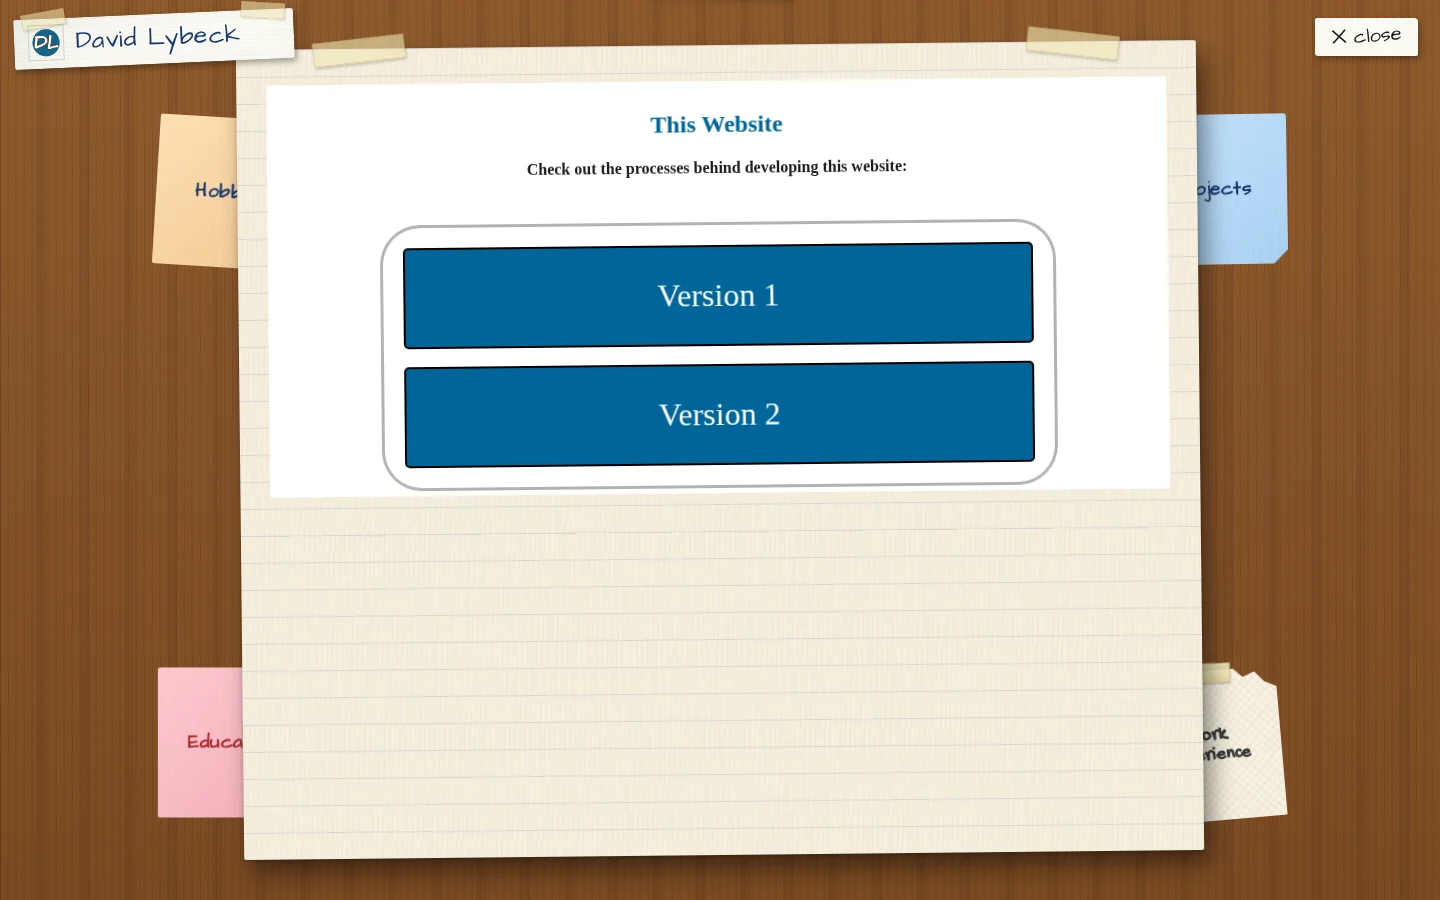
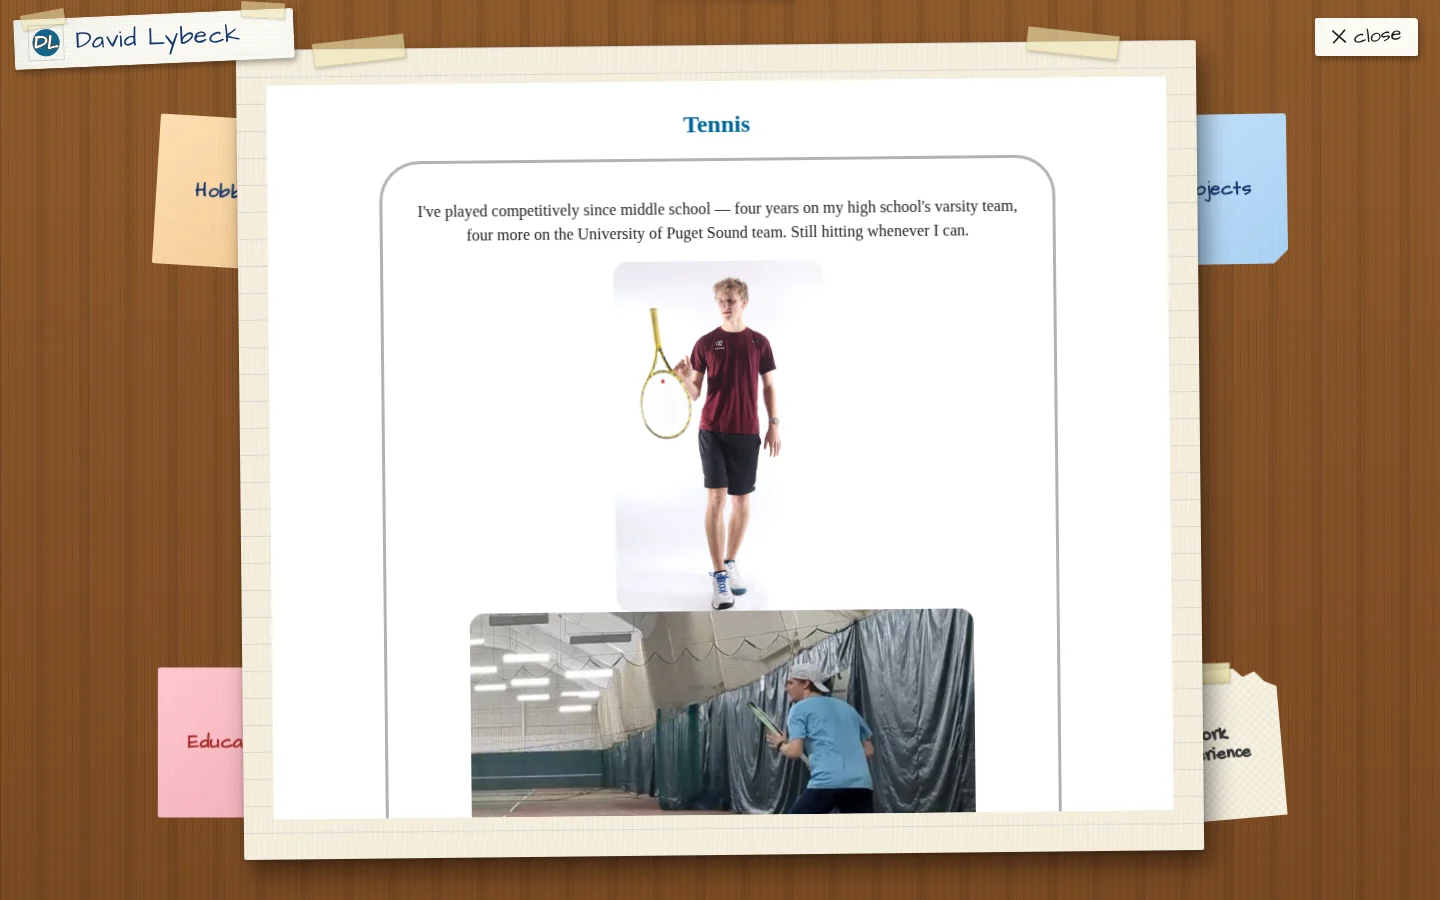
fix: make final v3 milestone visually distinct

diff --git a/templates/pages/projects/websites/this_website/v3.html b/templates/pages/projects/websites/this_website/v3.html
@@ -23,7 +23,7 @@
 
     <div class="section">
         <h3>April 25th 2026</h3>
-        <img class="media" src="/static/images/projects/this_website/v3/3.webp" alt="Public-only version 3 Board with its paper viewer">
+        <img class="media" src="/static/images/projects/this_website/v3/3.webp" alt="Version 3 paper viewer showing David's personal tennis page">
         <p>Removed the entire /dev hub and OpenHands integration that lived alongside the portfolio in v2 — now the codebase is strictly the public site. The cream paper now slides up to close (like lifting it off the table), runs larger on desktop, and gets pushed down on mobile so the navbar and close button don't overlap it.</p>
     </div>
 </div>

diff --git a/scripts/recover_v3_images.py b/scripts/recover_v3_images.py
@@ -31,8 +31,8 @@ SNAPSHOTS = (
     # Side-sliding paper viewer after the April 23 interaction polish.
     ("2.webp", "4fd2f2c", "/projects/websites/this_website"),
     # Public-only site immediately after the April 25 /dev removal, with the
-    # larger final paper viewer visible on the site's own history document.
-    ("3.webp", "0eacd53", "/projects/websites/this_website"),
+    # larger final paper viewer showing the personal side of the portfolio.
+    ("3.webp", "0eacd53", "/hobbies/tennis"),
 )
 
 
@@ -62,6 +62,7 @@ def historical_public_app(checkout: Path) -> FastAPI:
     template_by_path = {
         "": "pages/home.html",
         "projects/websites/this_website": "pages/projects/websites/this_website.html",
+        "hobbies/tennis": "pages/hobbies/tennis.html",
         "jobs": "pages/jobs.html",
     }
 

diff --git a/tests/test_historical_work.py b/tests/test_historical_work.py
@@ -29,13 +29,13 @@ DOCUMENT_ROUTES = (
 )
 
 
-def test_final_v3_snapshot_captures_the_site_history_document() -> None:
-    """The final retrospective image must show v3, not an unpainted PDF embed."""
+def test_final_v3_snapshot_uses_a_distinct_public_document() -> None:
+    """The final retrospective image must add a new view, not repeat image 2."""
 
     filename, commit, open_route = SNAPSHOTS[-1]
 
     assert (filename, commit) == ("3.webp", "0eacd53")
-    assert open_route == "/projects/websites/this_website"
+    assert open_route not in {None, SNAPSHOTS[-2][2], "/jobs"}
 
 
 def document_response(client: TestClient, route: str):
